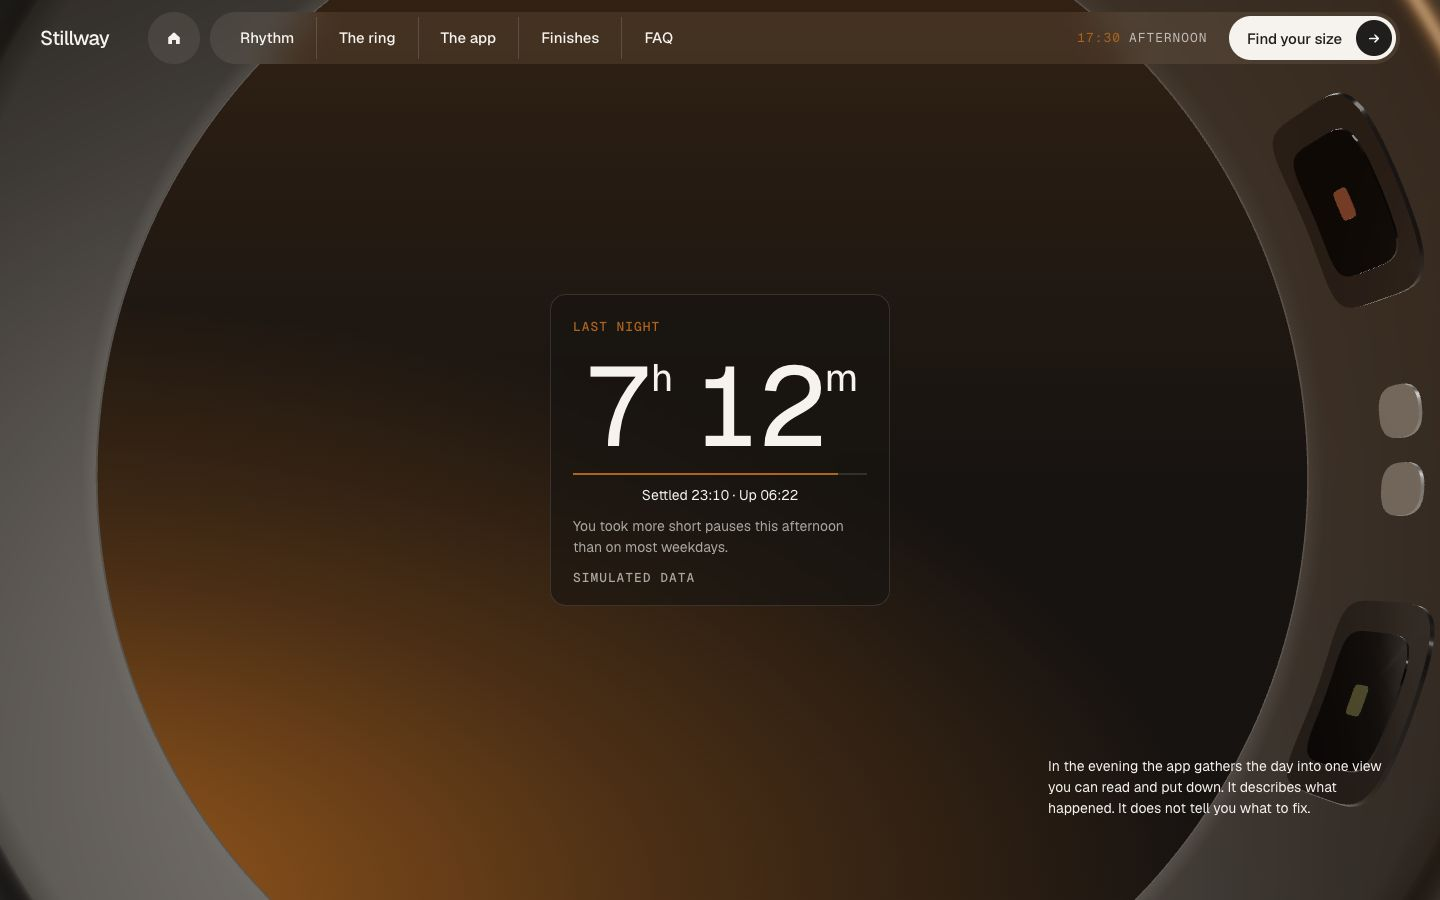
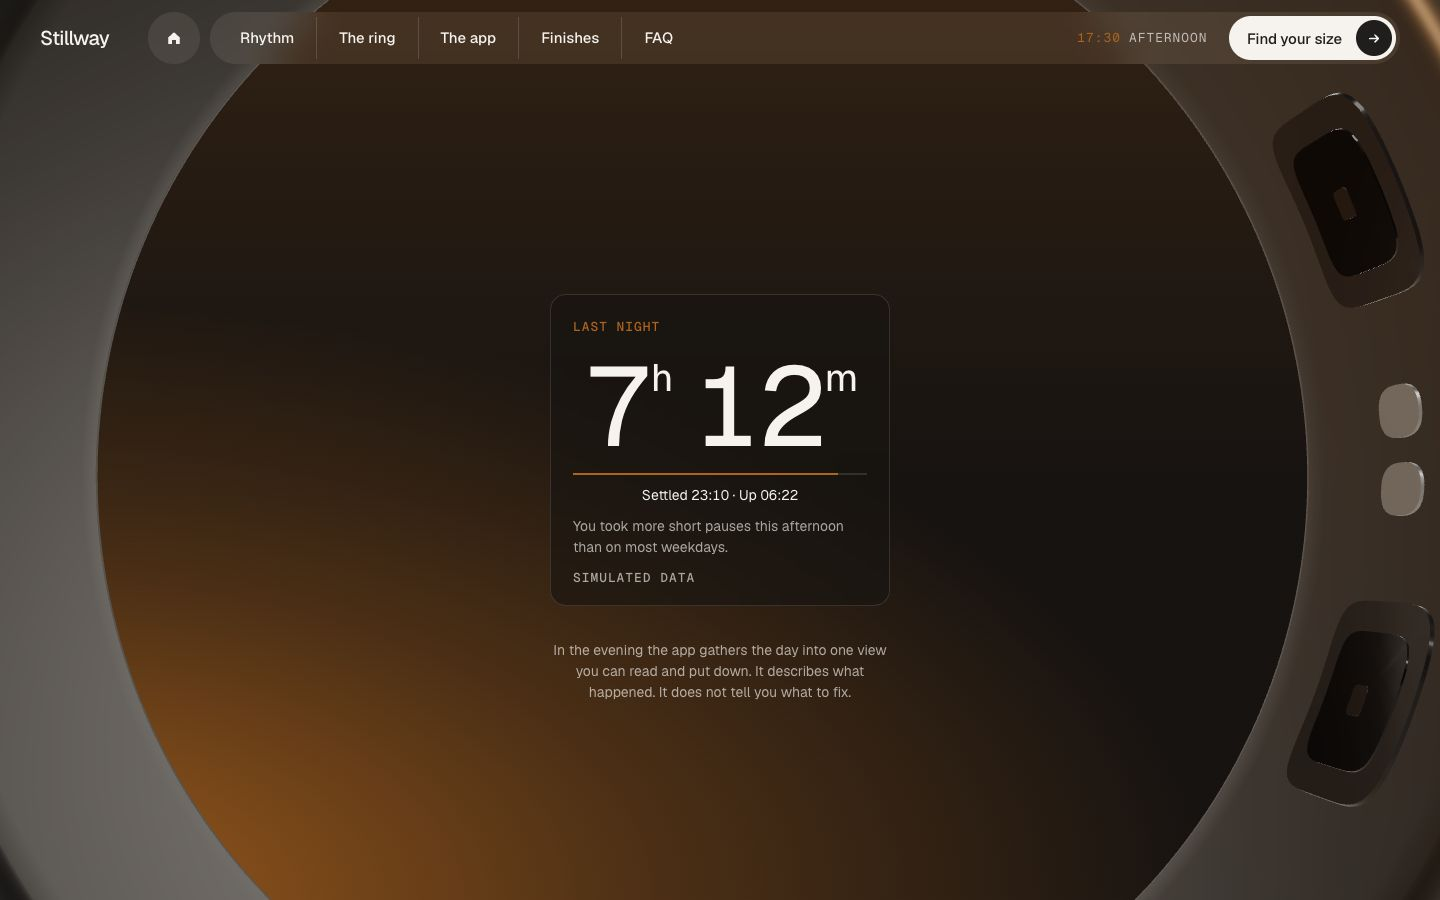
fix(web-v2): D-090 round 2 — unlit LEDs show no colour, S05 body inside the opening
- LED materials take a neutral dark colour whenever they are not lit (the GLB
  base colours read as red/green lights in the S05 close-up; D-062, Moodboard 2.3)
- S05 body text moves under the card inside the ring's opening (1440 and 390)
- screenshots s05-state3/4 updated

diff --git a/web-v2/src/scripts/ring/stage.ts b/web-v2/src/scripts/ring/stage.ts
@@ -196,7 +196,16 @@ export async function createRingStage(canvas: HTMLCanvasElement): Promise<RingSt
   // LEDs (D-062): both off until a section asks (S08 colours, "off" = red dot)
   const ledMain = ring.getObjectByName(RING_MODEL.meshes.ledMain)?.material as THREE.MeshStandardMaterial | undefined;
   const ledPower = ring.getObjectByName(RING_MODEL.meshes.ledPower)?.material as THREE.MeshStandardMaterial | undefined;
-  for (const m of [ledMain, ledPower]) if (m) m.emissiveIntensity = 0;
+  // D-062 / D-090 r2: an unlit LED shows no colour at all (its base colour in the GLB is red/green,
+  // which read as lights in close-ups); keep the authored colour only for when it is lit
+  const LED_OFF = new THREE.Color(0x1c1c1e);
+  const ledBase = new Map<THREE.MeshStandardMaterial, THREE.Color>();
+  for (const m of [ledMain, ledPower]) {
+    if (!m) continue;
+    ledBase.set(m, m.color.clone());
+    m.color.copy(LED_OFF);
+    m.emissiveIntensity = 0;
+  }
   spinner.add(ring);
 
   let W = 0;
@@ -298,6 +307,7 @@ export async function createRingStage(canvas: HTMLCanvasElement): Promise<RingSt
       if (c) m.emissive.set(c);
       m.emissiveIntensity = c ? intensity : 0;
       m.toneMapped = !c;
+      m.color.copy(c ? ledBase.get(m) ?? LED_OFF : LED_OFF);
     };
     lit(ledMain, color && color !== 'off' ? color : null);
     lit(ledPower, color === 'off' ? '#FF3B30' : null);
